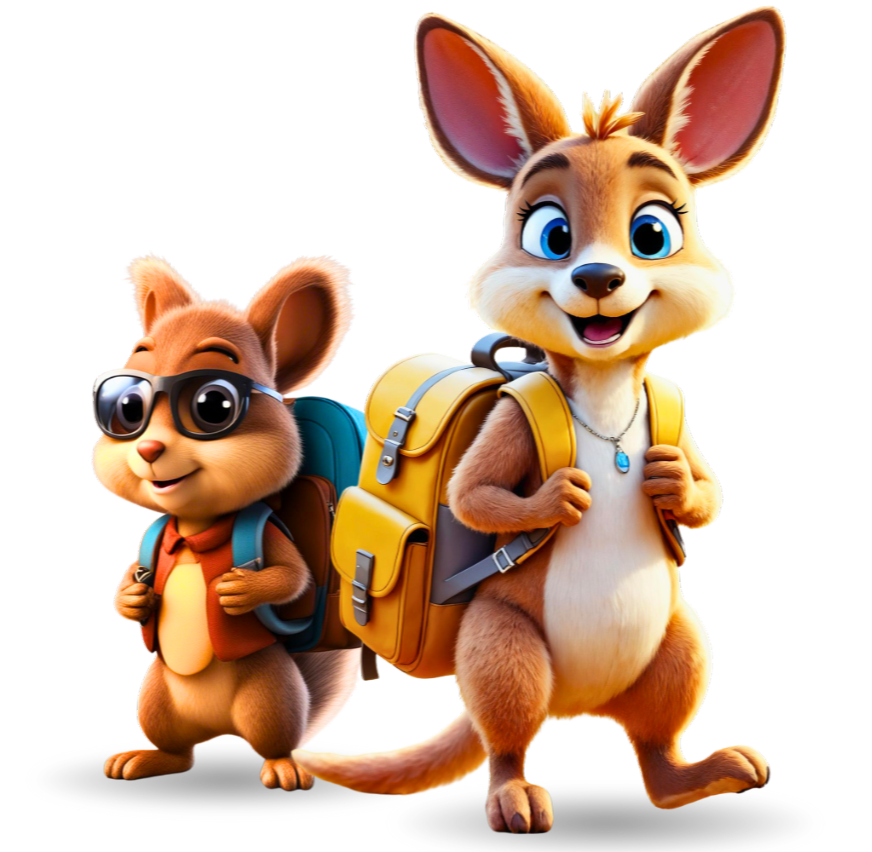
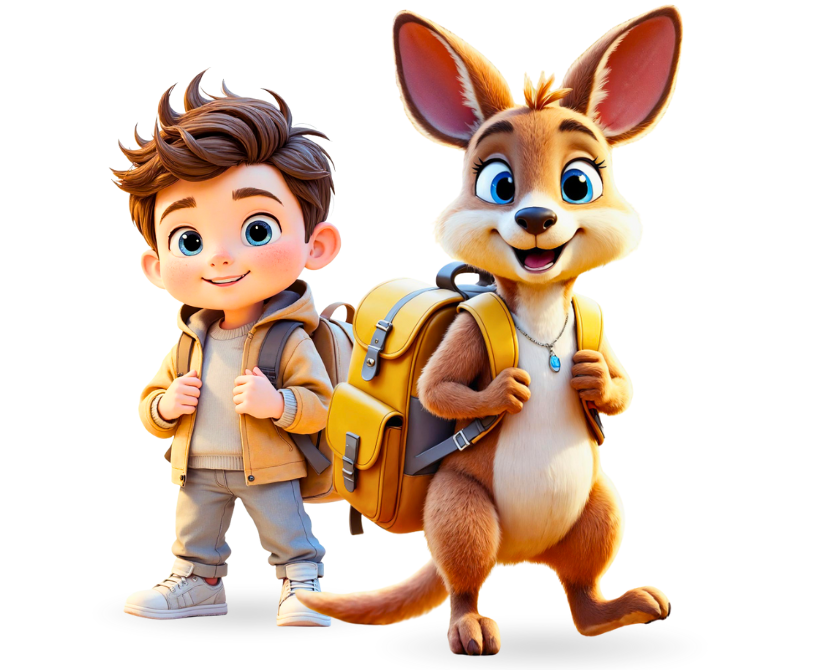
update images

diff --git a/resources/views/store/pricing.blade.php b/resources/views/store/pricing.blade.php
@@ -75,7 +75,7 @@
                             </div>
                             <div class="col-12 col-lg-6 col-md-12 col-sm-12 mt-lg-5 py-2 justify-content-center d-flex">
                                 <div class="fixed_header_media_width mx-auto">
-                                    <img src="{{ url('images/pricing_header.webp') }}" width="500" height="500" alt="a small kid standing with bag" class="learning-image">
+                                    <img src="{{ url('images/pricing_header.png') }}" width="500" height="500" alt="a small kid standing with bag" class="learning-image">
                                 </div>
                             </div>
                         </div>
@@ -91,7 +91,7 @@
     <section class="get_stared_section mb-5">
         <div class="row m-0 align-items-center">
             <div class="align-self-center text-center col-12 col-lg-5 col-md-6 col-sm-12">
-                <img src="images/discovertutor.webp" alt="discover {{ app(\App\Settings\SiteSettings::class)->app_name }}" height="100%" width="100%" class="responsive_image">
+                <img src="images/discovertutor_v2.png" alt="discover {{ app(\App\Settings\SiteSettings::class)->app_name }}" height="100%" width="100%" class="responsive_image">
             </div>
             <div class="col-lg-7 col-md-6 col-sm-12 col-12 p-3">
                 <h2 class="display-5 fw-medium mb-3">Step into smarter 11+ learning environment</h2>
@@ -106,7 +106,7 @@
         <div class="row align-items-center col-lg-10 col-12 mx-auto">
             <div class="col-lg-5 col-md-6 col-sm-12 col-12 my-3 pt-2 text-end justify-content-center d-flex">
                 <div class="fixed_header_media_width mx-auto">
-                    <img src="{{ url('images/pricing_contact.webp') }}" width="400" height="400" alt="cute boy with suggestions" class="learning-image img-fluid">
+                    <img src="{{ url('images/pricing_contact.png') }}" width="400" height="400" alt="cute boy with suggestions" class="learning-image img-fluid">
                 </div>
             </div>
             <div class="col-lg-7 col-md-6 col-sm-12 col-12 my-3">
